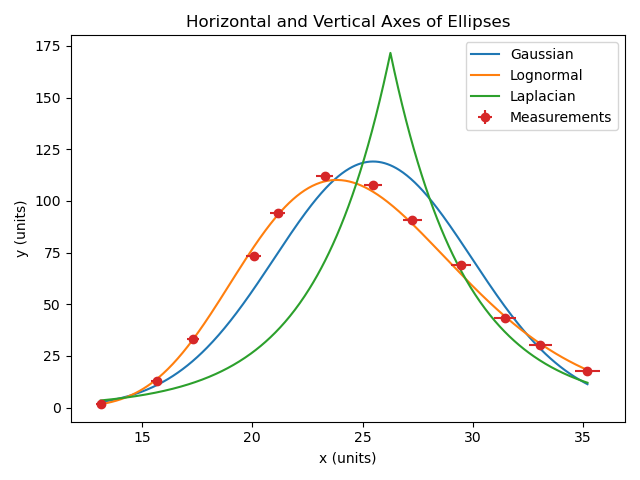
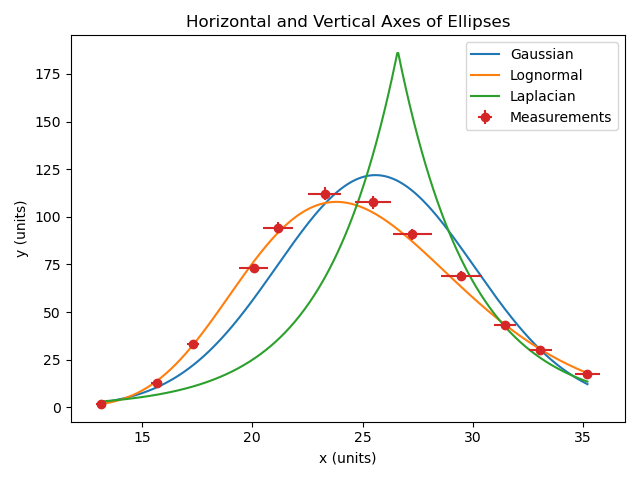
Replaced the measurements

diff --git a/advlab/data_analysis_assignment/Report.md b/advlab/data_analysis_assignment/Report.md
@@ -1,3 +1,32 @@
 $$
 y(x) = y_{\mu} e^{ -\frac{(x-\mu)^{2}}{2\sigma^{2}} } \qquad y(x) = \frac{y_{\mu}}{x\sigma} e^{ -\frac{(\ln x-\mu)^{2}}{2\sigma^{2}} } \qquad y(x) = y_{\mu} e^{ -\frac{\lvert x-\mu \rvert }{\sigma} }
 $$
+The mean value determine from raw measurements was computing using the mean value formula:
+$$
+\bar{x} = \frac{1}{n} \sum_{i=1}^{n} x_{i} = \frac{1}{2} (72.86 + 72.42) = 72.64
+$$
+Where $x_{i}$ is a single data point. Based on this mean, the standard deviation can be computed like so:
+$$
+\sigma = \sqrt{ \frac{1}{n-1} \left( \sum^n_{i=1}(x_{i}-\bar{x})^2 \right) } = \sqrt{ \frac{1}{2-1} \left( (72.86-72.64)^{2} + (72.42-72.64)^{2}  \right) } \approx 0.311
+$$
+And the standard error is determined by dividing this result with the square root of the number of trials:
+$$
+u(\bar{x}) = \frac{\sigma}{\sqrt{ n }} \approx \frac{0.311}{\sqrt{ 2 }} \approx 0.22
+$$
+The 26 unit calibration square was measured to have side lengths $(121\pm 2)$ mm. The fractional error for this quantity is approximately 0.016. The conversion ratio is therefore:
+$$
+\frac{\text{Units}}{\text{Millimetres}} \approx \frac{26}{121} \approx 0.216
+$$
+And the uncertainty, carried from the fractional uncertainty is roughly,
+$$
+0.216 \times 0.016 \approx 0.003
+$$
+The conversion from raw measurements is done like so:
+$$
+\text{Millimetres} \times \text{Scale Factor} \times \text{Conversion Ratio} = \text{Units}
+$$
+The scale factor is a constant without any uncertainty, and so the uncertainty is propagated as a product between two values $x$ and $y$ with some uncertainty $u(x)$ and $u(y)$.
+$$
+u(f) = sf\sqrt{ \left( \frac{u(x)}{x} \right)^2 + \left( \frac{u(y)}{y} \right)^2 } \approx 1\times 15.66 \sqrt{ \left( \frac{0.22}{72.64} \right)^{2} + \left( \frac{0.003}{0.216} \right)^{2} } \approx 0.25
+$$
+Where $f$ is the final, average measurement expressed in units.
